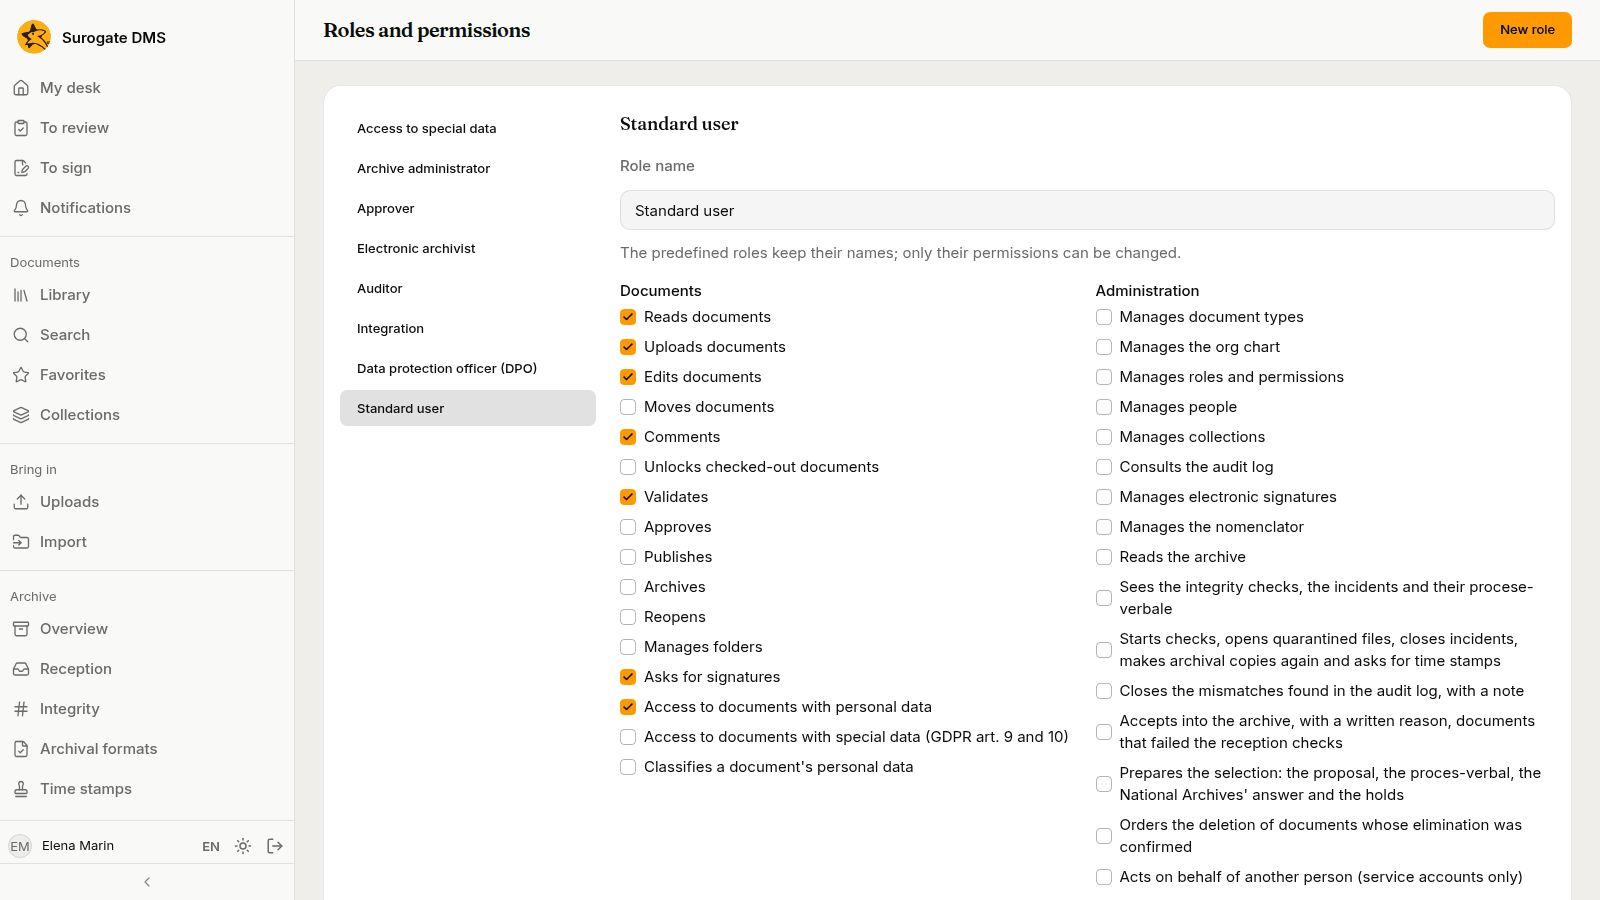
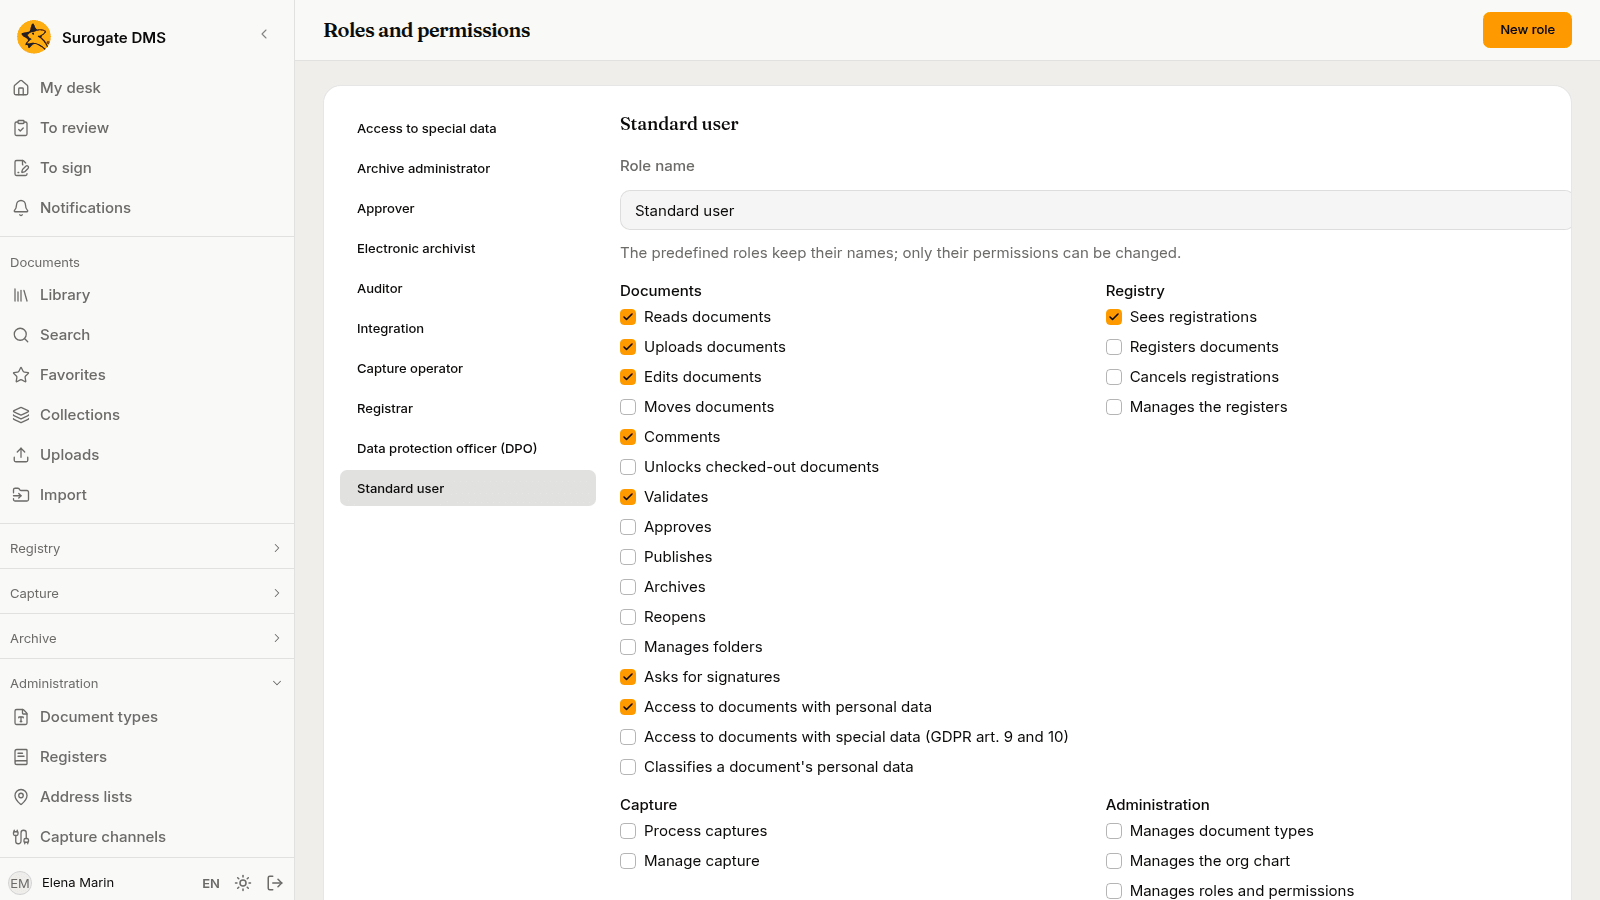
docs(dms): the sidebar as it is now, the Keel step in the Keel pages, and a retaken flow drawing and roles list

diff --git a/src/content/docs/dms/work/sign-in.md b/src/content/docs/dms/work/sign-in.md
@@ -31,20 +31,20 @@ After you sign in you land on **My desk**, or on the page you had opened before.
 
 ## The sidebar
 
-The sidebar lists the pages your roles allow. A person who files documents and reads them sees the first three groups. The **Capture** group appears for people who may upload documents or work captures, and the **Archive** and **Administration** groups for people with the right roles.
+The sidebar lists the pages your roles allow. A person who files documents and reads them sees the first two groups. The **Registry** group appears for people with a registry permission, the **Capture** group for people who may upload documents or work captures, and the **Archive** and **Administration** groups for people with the right roles. **Registry** and **Capture** are folded until you open them.
 
-![The sidebar of a staff member: My desk, To review, To sign, Notifications, Documents and Bring in](../../../../assets/screenshots/dms-shell-staff.png)
+![The sidebar of a staff member: My desk, To review, To sign and Notifications, then Documents with Library, Search, Favorites, Collections, Uploads and Import, and the folded groups Registry and Capture](../../../../assets/screenshots/dms-shell-sidebar.png)
 
 | Group | Pages | Who sees it |
 |---|---|---|
 | (no title) | **My desk**, **To review**, **To sign**, **Notifications** | Everyone |
-| **Documents** | **Library**, **Search**, **Favorites**, **Collections** | Everyone |
-| **Bring in** | **Uploads**, and **Import** for people who may file documents | Everyone, **Import** with the right to file |
+| **Documents** | **Library**, **Search**, **Favorites**, **Collections**, **Uploads**, and **Import** for people who may file documents | Everyone, **Import** with the right to file |
+| **Registry** | **Registrations**, **For my unit**, **Correspondents** | People with a registry permission; **Correspondents** also for people who may read the directory |
 | **Capture** | **New capture**, **To process**, **To validate**, **My captures**, **Separator sheets** | **New capture** and **My captures** for people who may upload documents; all of them for people who hold **Process captures** |
 | **Archive** | **Overview**, **Reception**, **Integrity**, **Archival formats**, **Time stamps**, **Selection**, **Handover**, **Procese-verbale**, **Personal data**, **Reports**, **Alerts** | People with archive, audit, personal-data or alert roles |
 | **Administration** | **Document types**, **Folders**, **Nomenclator**, **Org chart**, **Roles and permissions**, **People**, **Signatures**, **Audit log** | Administrators and auditors, each page by its own permission |
 
-A first administrator sees both extra groups.
+A first administrator sees every group.
 
 ![My desk of the first administrator, with the Archive and Administration groups in the sidebar](../../../../assets/screenshots/dms-desk-first-admin.png)
 

diff --git a/src/content/docs/dms/work/upload.md b/src/content/docs/dms/work/upload.md
@@ -27,7 +27,7 @@ Uploads go on in the background. A card at the bottom right of every page, the *
 
 ![The tray with three files uploading](../../../../assets/screenshots/dms-upload-tray.png)
 
-The **Uploads** page, under **Bring in**, lists every file of this window and what each is doing. **Remove the finished ones from the list** tidies it. A file whose upload was cut off by closing the page can be continued for a day: choose the same file again and only what is missing is sent.
+The **Uploads** page, under **Documents**, lists every file of this window and what each is doing. **Remove the finished ones from the list** tidies it. A file whose upload was cut off by closing the page can be continued for a day: choose the same file again and only what is missing is sent.
 
 ![The Uploads page with three finished uploads](../../../../assets/screenshots/dms-uploads-page.png)
 
@@ -41,7 +41,7 @@ When a finished upload looks like another document, the document's page tells yo
 
 ## Import many documents at once
 
-When you have many files and their metadata, use **Import** under **Bring in**. It has three steps.
+When you have many files and their metadata, use **Import** under **Documents**. It has three steps.
 
 1. **Put the files in the staging area.** Drop the files or a whole folder, or choose them. The files wait there for 30 days and only you see them.
 2. **Download the manifest template and fill it in.** Choose the **Type of the documents in the template**, tick **Fill the template with the staged files** and press **Download the template**. In the spreadsheet, one row for each file: the dosar it goes to, its title, and the values of the type's fields.

diff --git a/src/content/docs/dms/reference/glossary.md b/src/content/docs/dms/reference/glossary.md
@@ -31,6 +31,7 @@ The words this guide uses, with the Romanian terms the DMS keeps on purpose.
 | **Entry** | One line of the nomenclator: an indicativ, a compartment, a short content and a term |
 | **Favorite** | A document you marked with a star |
 | **Grant** | The act of giving a role to a person, a position or a unit, for the whole institution or one unit |
+| **Handover** | The process by which permanent dosare are given to the National Archives |
 | **Hold** | A mark on a dosar that keeps it out of every selection |
 | **Holder** | The person who holds a position |
 | **Indicativ** | The code of an entry of the nomenclator |
@@ -57,7 +58,6 @@ The words this guide uses, with the Romanian terms the DMS keeps on purpose.
 | **Retention term** | How long a dosar's documents are kept, in years, or permanently |
 | **Role** | A set of permissions |
 | **Selection** | The process by which dosare whose term has ended are proposed, confirmed by the National Archives and deleted |
-| **Handover** | The process by which permanent dosare are given to the National Archives |
 | **Separator sheet** | A printed page put between two documents of a scanned stack to cut it |
 | **Service register** | A register kept by one unit, with its own prefix, suffix and numbers, below the main register |
 | **Start rule** | A rule that makes the DMS start a Keel process when a document is filed in a folder or when a dosar's term ends |

diff --git a/src/content/docs/dms/work/workflows.md b/src/content/docs/dms/work/workflows.md
@@ -17,7 +17,7 @@ A flow can read a document, move it through its states (validate, approve, publi
 - A flow acts **for a person** and with that person's access. If you may not approve a document, a flow acting for you may not either, and the refusal goes to whoever the flow sends it to. A step that nobody completed, such as a timer, acts as a service account with only the rights an administrator gave it.
 - A flow never signs for you. Signing and refusing to sign stay yours alone.
 
-A flow can also **start** by itself when a document is filed in a folder that your administrators chose, or when the retention term of a dosar ends. You do nothing for that: the new process holds the document from the start. See [Keel integration](/dms/admin/keel-integration/) for the rules behind it.
+A flow can also **start** by itself when a document is filed in a folder that your administrators chose, or when the retention term of a dosar ends. You do nothing for that: the new process holds the document from the start. See [Keel integration](/dms/admin/keel-integration/) for the rules behind it. A capture flow can start one too: its **Keel** step starts a process for each document it files, as [Capture flows](/dms/admin/capture-flows/#the-keel-step) describes.
 
 ## The Workflows tab
 

diff --git a/src/content/docs/dms/admin/keel-integration.md b/src/content/docs/dms/admin/keel-integration.md
@@ -40,6 +40,8 @@ A **start rule** makes the DMS start a Keel process by itself. There are two kin
 - **For each new document in a folder**. When a document is filed in that library folder, or in a personal folder inside it, the process starts and holds the document from the start. A bulk import never starts processes.
 - **When a dosar's retention term ends**. Once a day the DMS finds the dosare that the [Selection](/dms/archive/selection/) page lists as candidates and starts the process for each one, once for each rule, dosar and year in which the term ended.
 
+A third way starts a process too: the **Keel** step of a [capture flow](/dms/admin/capture-flows/#the-keel-step) starts one for each document the flow files. It is set in the flow, not in a start rule. If a start rule of the destination folder would start the same process, the flow's check warns about two processes.
+
 ![The Start rules tab with no rule yet](../../../../assets/screenshots/dms-keel-rules-empty.png)
 
 ### Add a rule

diff --git a/src/content/docs/dms/admin/roles.md b/src/content/docs/dms/admin/roles.md
@@ -10,7 +10,7 @@ For administrators who hold the permission to manage roles and permissions: what
 
 A **role** is a set of permissions. **Administration** › **Roles and permissions** lists the roles on the left: the built-in ones (**Access to special data**, **Archive administrator**, **Electronic archivist**, **Auditor**, **Integration**, **Capture operator**, **Data protection officer (DPO)**, **Registrar** and **Standard user**) and any you made. The built-in roles keep their names; only their permissions can be changed. Choose a role to see its permissions, in the groups **Documents**, **Registry**, **Capture** and **Administration**.
 
-![The role Standard user and its permissions](../../../../assets/screenshots/dms-roles-list.png)
+![The role Standard user and its permissions, in the groups Documents, Registry, Capture and Administration](../../../../assets/screenshots/dms-roles-list.png)
 
 ### Make a role
 

diff --git a/src/content/docs/dms/reference/faq.md b/src/content/docs/dms/reference/faq.md
@@ -12,7 +12,7 @@ Answers to the questions the DMS's messages and empty screens raise.
 Your account exists but nobody has given you a role yet, or the role does not reach the folder. Ask your administrator for a grant. See [Roles and permissions](/dms/admin/roles/).
 
 ### Why is Upload missing?
-The **Upload** button shows only in folders where you may file documents, and not in a closed dosar. **Import** under **Bring in** shows only to people who may file documents.
+The **Upload** button shows only in folders where you may file documents, and not in a closed dosar. **Import** under **Documents** shows only to people who may file documents.
 
 ### Why is a page missing from my sidebar?
 The sidebar lists only the pages your roles allow. See [Sign in and find your way](/dms/work/sign-in/).
